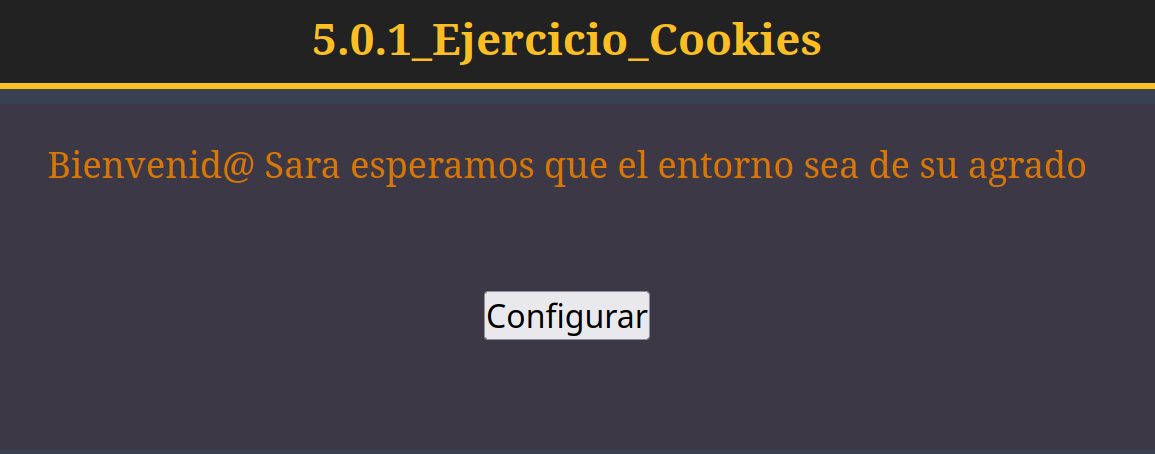
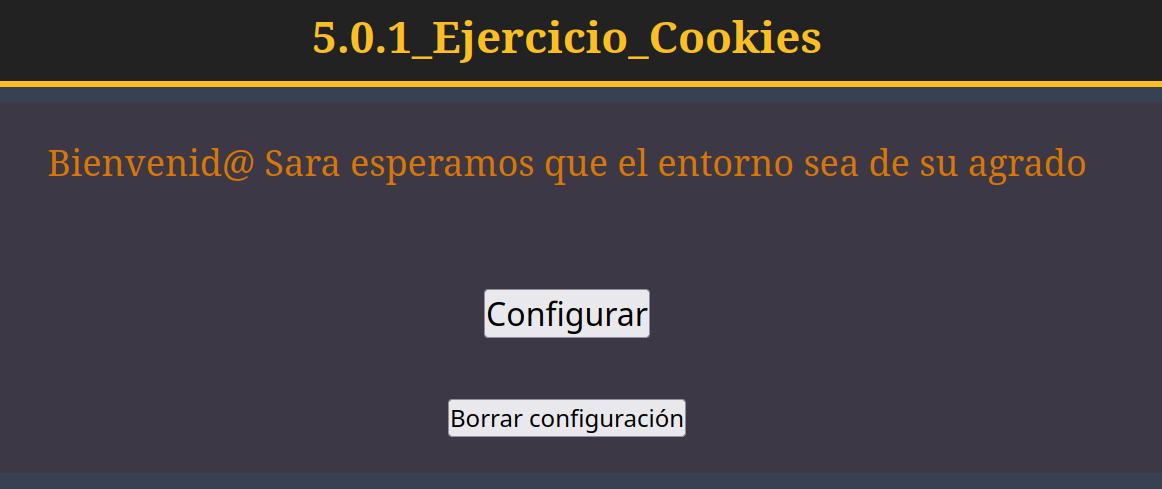
some fixes

diff --git a/tema_4/index.php b/tema_4/index.php
@@ -17,7 +17,8 @@ echo drawInitPage("'5.0.1_Ejercicio_Cookies'").drawHeader("$title")
      ."<article class=\"console\" style=\"background-color: $backgroundColor; color: var(--main-color);\">";
 
 echo "<p style=\"text-align: center;\">$message</p>";
-echo '<br><br><a href="preferencias.php" style="display:block; text-align:center;"><button style="font-size:2rem;">Configurar</button></a>';
+echo '<br><br><a href="preferencias.php" style="display:block; text-align:center;"><button style="font-size:2rem;">Configurar</button></a><br>';
+echo '<a href="borrar_prefs.php" style="display:block; text-align:center;"><button style="font-size:1.5rem;">Borrar configuración</button></a>';
 
-enndPage();
+endPage();
 ?>

diff --git a/tema_4/borrar_prefs.php b/tema_4/borrar_prefs.php
@@ -1,0 +1,7 @@
+<?php
+
+setcookie('nombreusu', '', time() - 300);
+setcookie('colorusu', '', time() - 300);
+
+header('Location:index.php');
+?>
